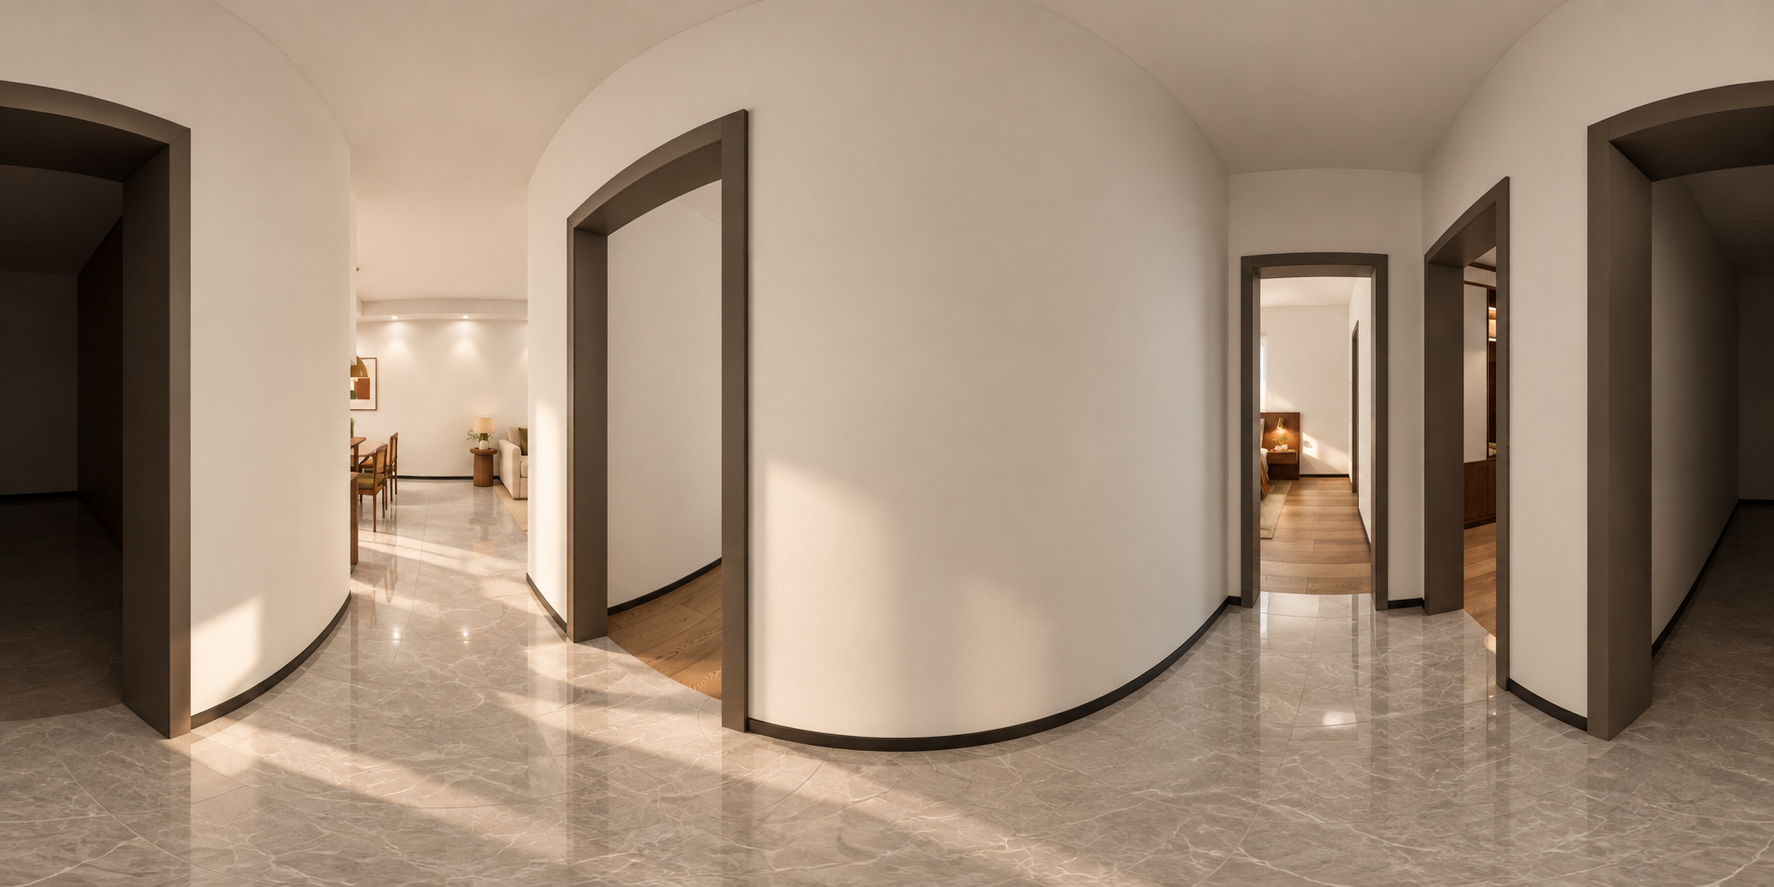
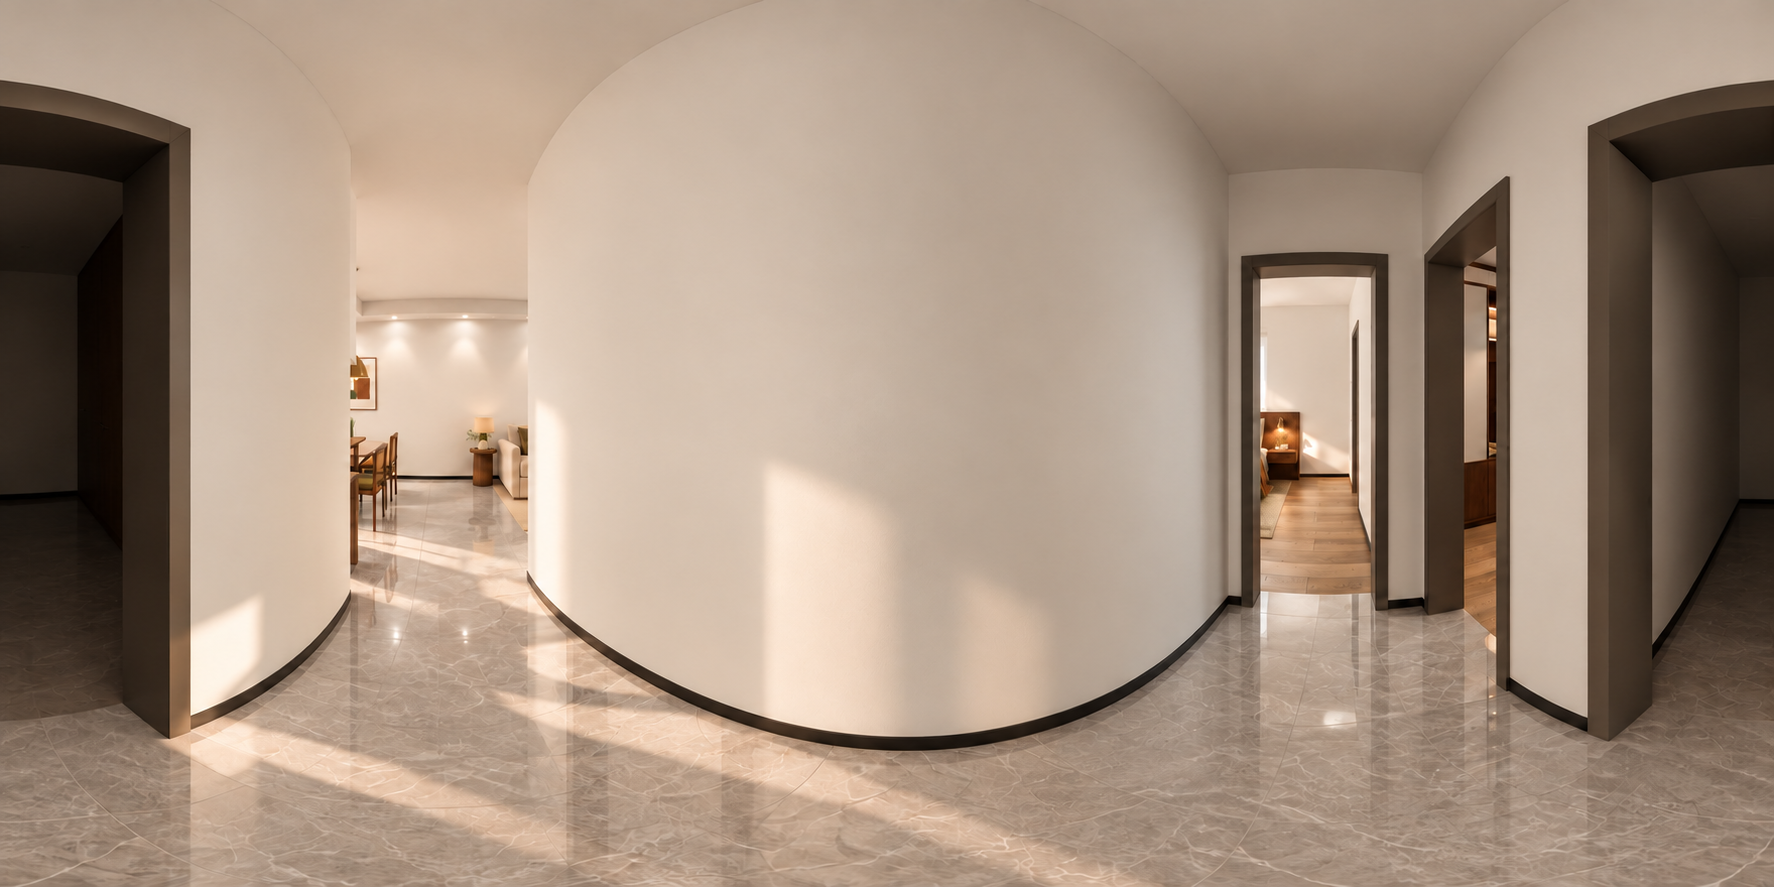
[publish] Remove false corridor doorway from panorama

Changed region(s): [[0.279, 0.1218, 0.5271, 0.8523], [0.7131, 0.487, 0.7441, 0.5175]]

diff --git a/content/home-design/漫游/index.html b/content/home-design/漫游/index.html
@@ -158,7 +158,7 @@
    catch(error){fail('请点击“选择本地全景”，选中 全景精修图 文件夹内的七张 pano_ 图片后继续浏览。');}
   };
   image.onerror=()=>{if(ticket===generation)fail('暂时找不到'+room.name+'的全景图片。请稍后重新载入，或选择本地全景图片。');};
-  image.src=localFiles.get(key)||'./全景精修图/pano_'+key+'.png'+(key==='second'?'?v=workroom5':(['master','closet'].includes(key)?'?v=parents6':''));
+  image.src=localFiles.get(key)||'./全景精修图/pano_'+key+'.png'+(key==='hall'?'?v=hall-door-fix1':(key==='second'?'?v=workroom5':(['master','closet'].includes(key)?'?v=parents6':'')));
  }
  $('rooms').addEventListener('click',e=>{const b=e.target.closest('[data-room]');if(b)loadRoom(b.dataset.room);});
  $('retry').addEventListener('click',()=>loadRoom(active));
